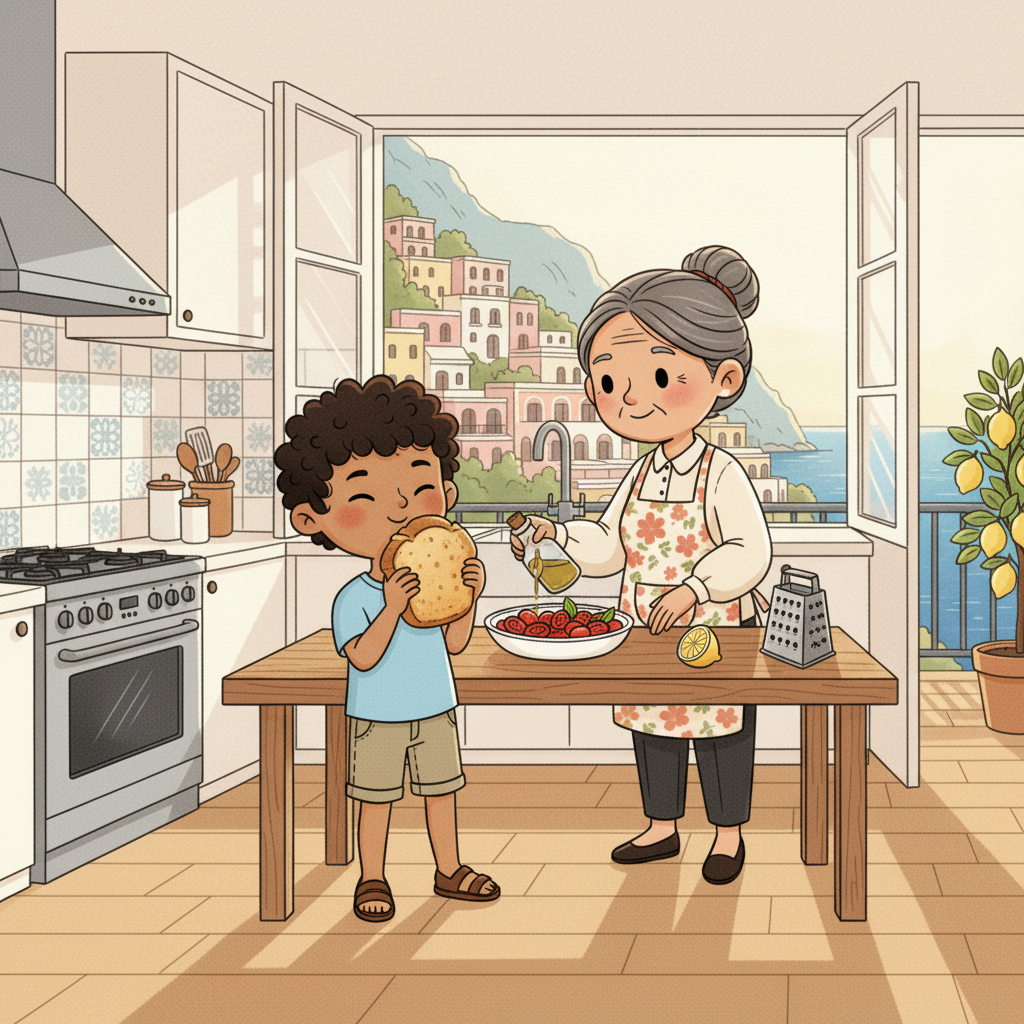
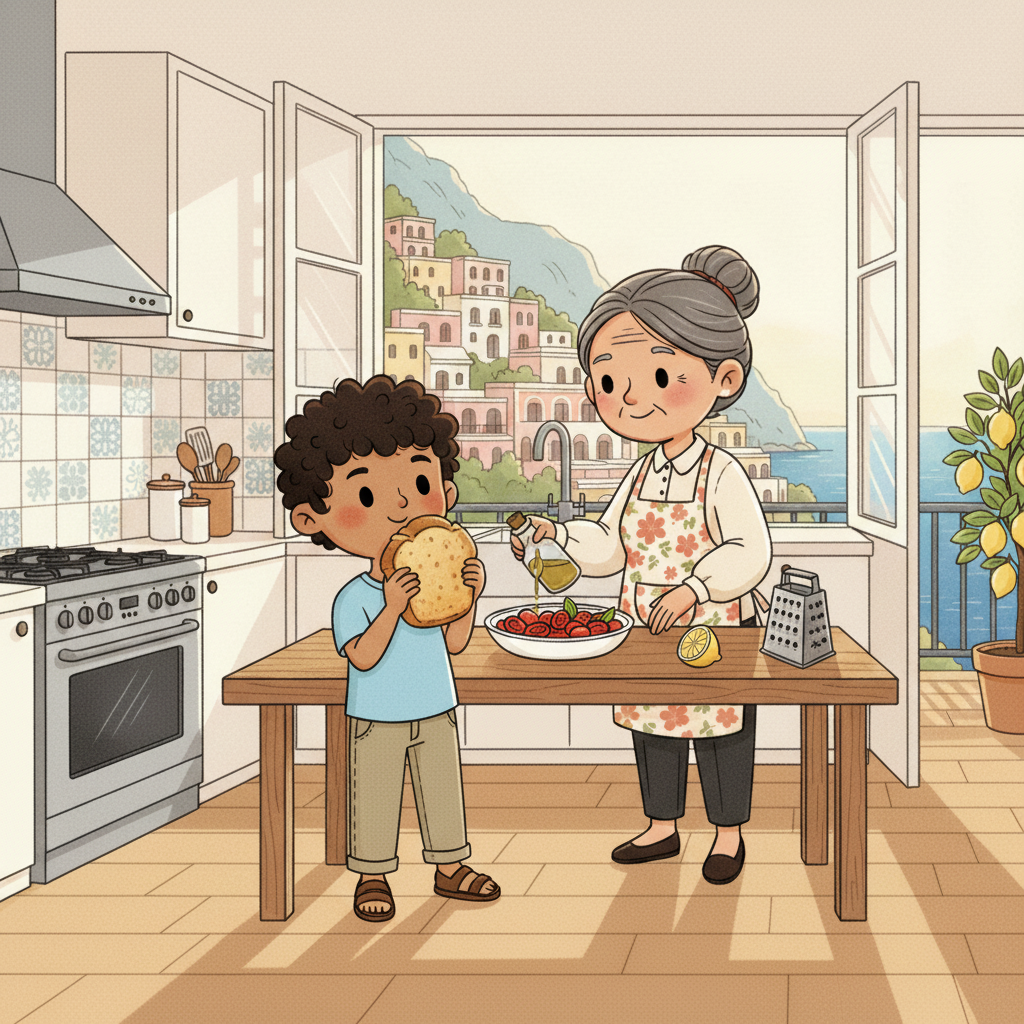
L6.3 (Amalfi): fix eye consistency and page composition
Regenerate all 9 L6.3 illustrations to resolve issues that failed the
book-assessor QA:

- Luca and Nonna's eyes drift from the tiny-black-dot style across pages
  — forced strict dot-only eye rule with a character reference image.
- Page 4: pot was shown sitting directly on the wooden table; add a
  wooden trivet so Nonna is plausibly mixing, not cooking on the wood.
- Page 7: Sofia was at the table instead of in the doorway pointing;
  granita cup was drawn as a tall juice glass instead of the short cup
  with lemon slice + mint leaf.
- Page 8: stove had migrated to the centre of the room; Nonna was in
  foreground instead of near the window; Sofia appeared much younger /
  paler than Luca. Reblocked so both children stand in front of the
  table at equal height, Sofia reaches out for the cup, Nonna watches
  from the window.
- Boy's outfit: khaki shorts → khaki trousers (full leg coverage) across
  all pages for modesty consistency.
- Sofia reference: regenerated with denim jeans instead of shorts and
  wired into pages 7–8 as a second character reference.

Story text: one word change on page 8 ("doorway" → "window") so the
narration matches Nonna's new position in the illustration.

diff --git a/myphonics_books/data/delicious_suspicious_story_l6_3_book1.py b/myphonics_books/data/delicious_suspicious_story_l6_3_book1.py
@@ -211,7 +211,7 @@ DELICIOUS_SUSPICIOUS_STORY_BOOK1 = {
                     "But Nonna's cooking is nutritious and delicious — "
                     "and this is the most precious treat on the whole coast.\" "
                     "Sofia took a cautious lick. Her face lit up at once. "
-                    "Nonna watched them from the doorway, the lemon groves glowing "
+                    "Nonna watched them from the window, the lemon groves glowing "
                     "golden on the clifftop behind her, and she thought that feeding "
                     "the people you love was the most ambitious and delicious thing "
                     "a person could ever do."
